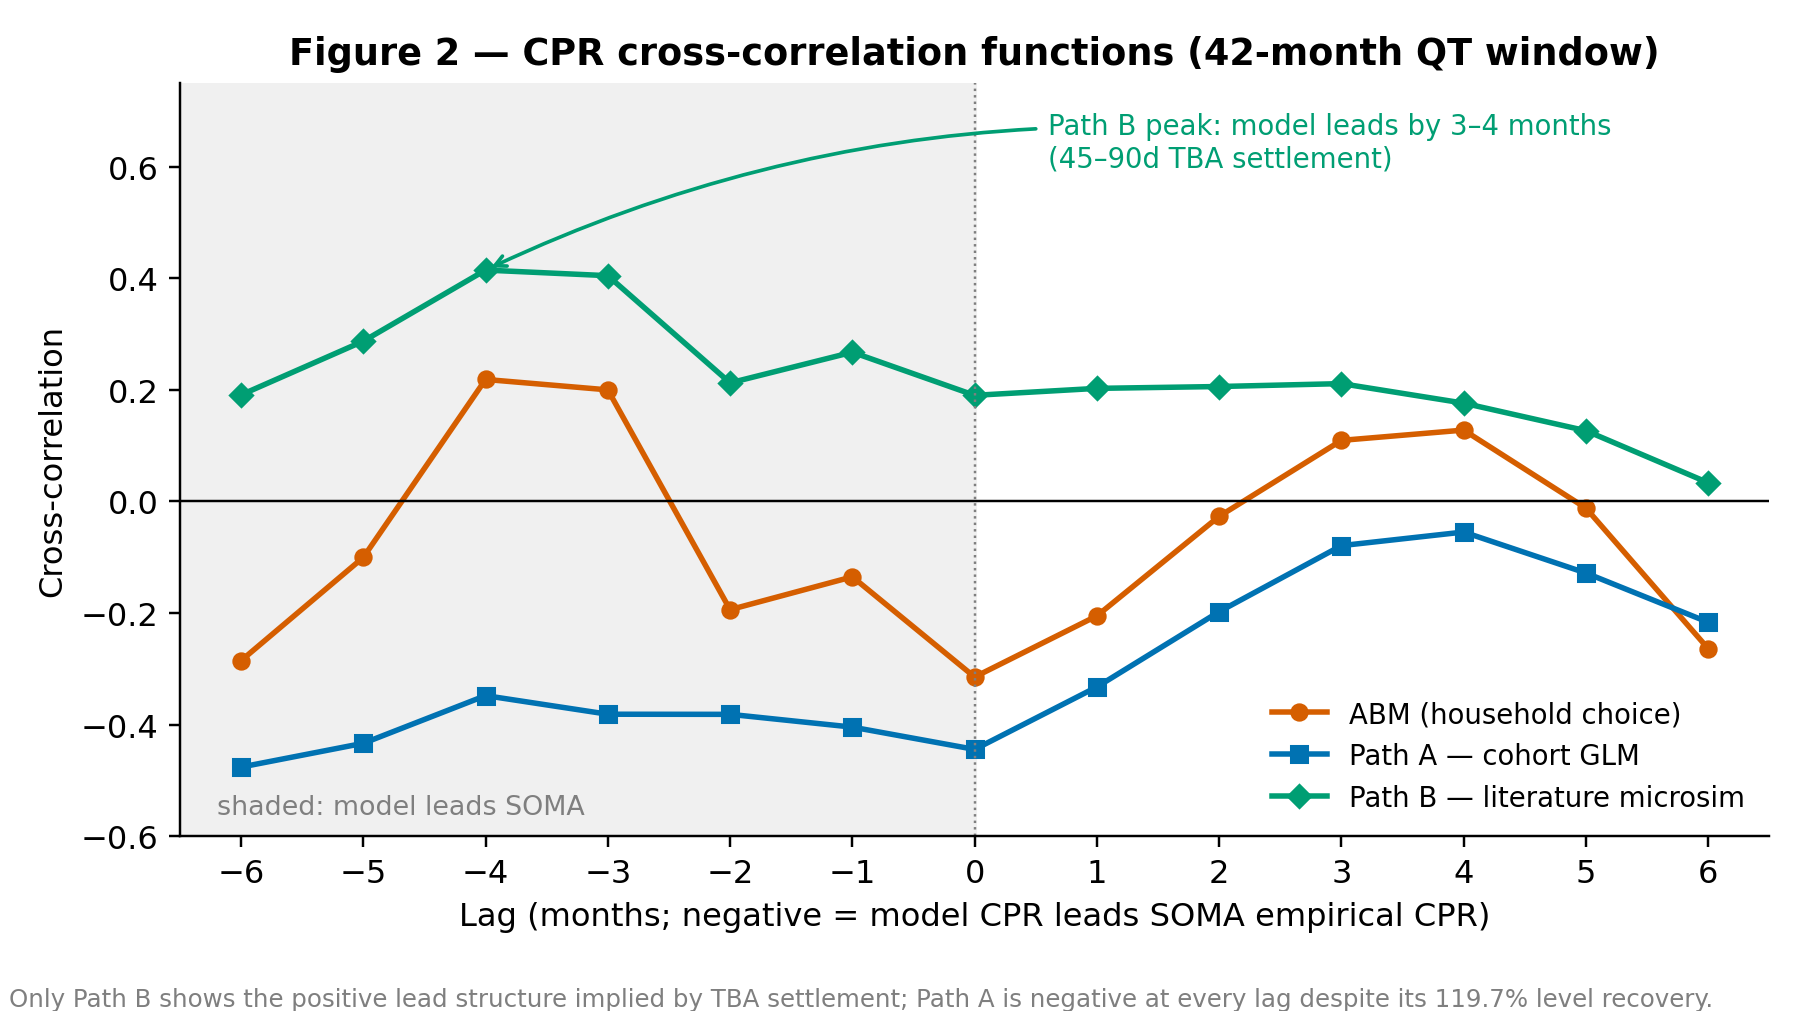
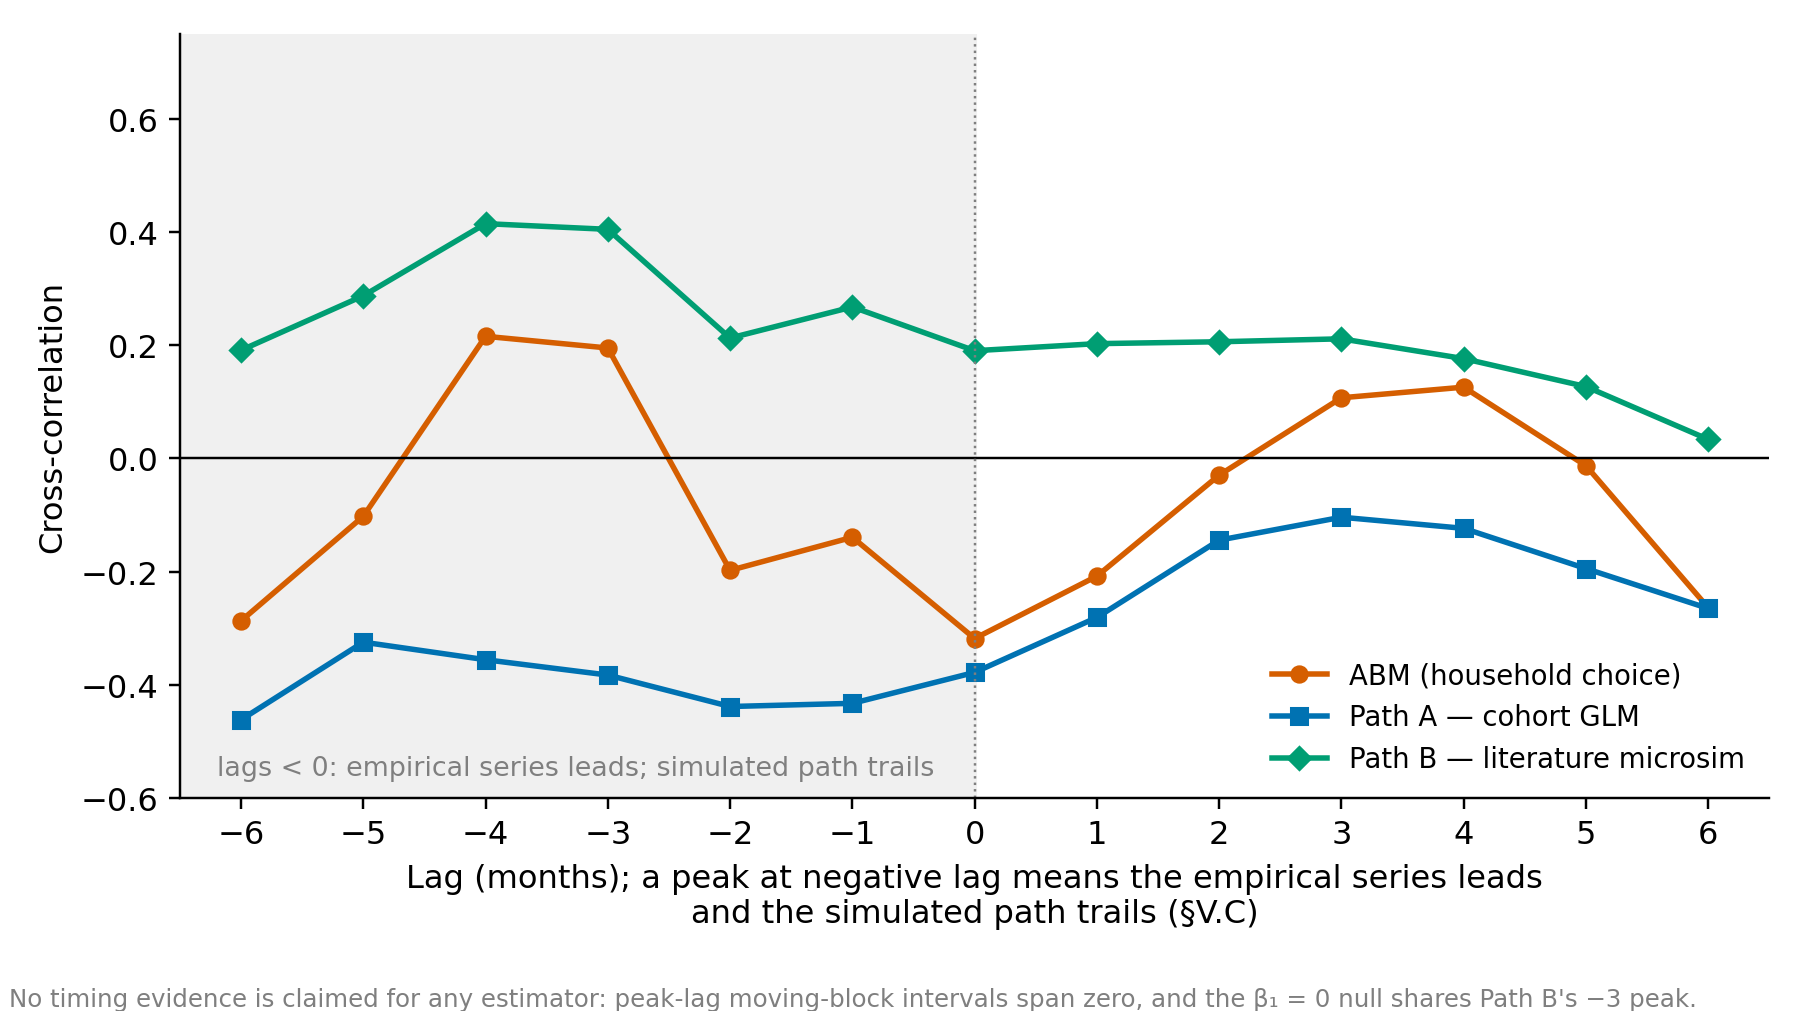
Run: figure layer regenerated under spec v4 (post-freeze pass, phase 3)
ccf_data.json rebuilt by make_ccf_data.py, all gates green: ABM ±3 values
equal the run-2026-07-04-15yr-foldin manifest cross_correlation block
(production series, lag-0 r -0.318; previous file used the berger variant);
Path A spec v4 from simulation_results.parquet (lag-0 r -0.3782 matching
the run-2026-07-14-pathA-seasonal manifest, ±3 peak at -2); Path B ±3
values equal extension_risk_results_literature_microsim.json (peak -3 at
+0.404, unchanged).

Regenerated fig2_ccf.png (retracted model-leads/TBA annotations removed,
convention-correct labels, no-timing-evidence footer, v4 Path A curve),
fig1_recovery_by_estimator.png (Path A 112.4% shared / 121.5 standalone,
r0 -0.38, from shared_layer_scoring_results.json + frozen manifest),
fig7_architecture.png (footer: standalone scorer ABM 11.9% / Path A 121.5%
/ Path B 107.0%, read from manifests), fig5_cross_design.png (neutral
footer; values from cross_design_results.json + fold-in manifest).
make_figures.py: CCF xlabel wrapped to two lines. README updated to the
new generator layout and v4 numbers.

diff --git a/figures/make_figures.py b/figures/make_figures.py
@@ -153,7 +153,7 @@ def fig2_ccf():
     ax.axhline(0, color="black", lw=0.8)
     ax.axvline(0, color=C_GRAY, lw=0.8, ls=":")
     ax.set_xlabel("Lag (months); a peak at negative lag means the empirical "
-                  "series leads and the simulated path trails (§V.C)")
+                  "series leads\nand the simulated path trails (§V.C)")
     ax.set_ylabel("Cross-correlation")
     ax.set_xlim(-6.5, 6.5)
     ax.set_ylim(-0.6, 0.75)

diff --git a/figures/README.md b/figures/README.md
@@ -1,10 +1,13 @@
 # Figures
 
 Publication figures for the lock-in paper, generated entirely from committed
-result artifacts — no live data fetch needed. Regenerate with:
+result artifacts — no recovery share, dollar figure, or correlation is
+hardcoded in the generators (enforced by tools/liveness_gates.py).
+Regenerate with:
 
 ```bash
-python3 figures/make_figures.py
+python3 figures/make_ccf_data.py   # rebuilds ccf_data.json (gated)
+python3 figures/make_figures.py    # all figures, or pass fig1 fig2 …
 ```
 
 Style: Okabe-Ito colorblind-safe palette; paradigms are color-coded throughout
@@ -13,35 +16,42 @@ purple = cross-design hybrids).
 
 | File | What it shows | Data source |
 |---|---|---|
-| `fig1_recovery_by_estimator.png` | Benchmark recovery (% of $764.7B) per estimator, dot plot with 100% reference line, on the shared accounting basis. Paradigm colors only — marker-fill semantics were removed in the v15 round; lag-0 correlations are reference-only ([TECHNICAL.md §22.3b](../TECHNICAL.md#22-manuscript-verification-record-referee-rounds-july-2026)). | run manifests, `extension_risk_results_*.json`, `cross_design_results.json`, `synthetic_companion_results.json` |
-| `fig2_ccf.png` | Cross-correlation functions, lags −6…+6, all three estimators. Under the corrected convention (§22.3b), the −3/−4 peaks mean the simulated paths **trail** the empirical series; no estimator shows positive contemporaneous alignment, and the peaks are not distinguishable from zero under block-bootstrap bands. | `ccf_data.json` (see below) |
-| `fig3_abm_waterfall.png` | ABM falsification bridge: rational baseline 71.1% → behavioral gates 54.9% → curtailment 45.1% → multi-vintage 33.7% → 15yr fold-in 11.9% → production (native gate) 11.1%. Every pre-registered extension moves away from 100%. | stage levels 71.1/54.9/45.1/33.7 as supplied from the paper's falsification table; final two stages from `run-2026-07-04-15yr-foldin` / `run-2026-07-05-berger` manifests |
+| `fig1_recovery_by_estimator.png` | Benchmark recovery (% of $764.7B) per estimator, dot plot with 100% reference line, on the shared accounting basis (standalone-scorer values in parentheses); lag-0 correlations are reference-only ([TECHNICAL.md §22.3b](../TECHNICAL.md#22-manuscript-verification-record-referee-rounds-july-2026)). Path A row is spec v4 (post-freeze pass). | `shared_layer_scoring_results.json`, `run-2026-07-14-pathA-seasonal` manifest, `full_book_weighting_results.json`, `extension_risk_results_literature_microsim.json`, `synthetic_companion_results.json`, `cross_design_results.json`, `run-2026-07-05-berger` manifest |
+| `fig2_ccf.png` | Cross-correlation functions, lags −6…+6, all three estimators. Under the implemented convention (§V.C), a peak at negative lag means the **empirical series leads and the simulated path trails**; no estimator shows positive contemporaneous alignment and no timing evidence is claimed for any estimator. Path A is spec v4 (lag-0 r −0.378, peak −2); ABM is the production fold-in run. | `ccf_data.json` (regenerated by `make_ccf_data.py`, see below) |
+| `fig3_abm_waterfall.png` | ABM falsification bridge: rational baseline 71.1% → behavioral gates 54.9% → curtailment 45.1% → multi-vintage 33.7% → 15yr fold-in 11.9% → native-gate variant 11.1%. Every pre-registered extension moves away from 100%. | `fig3_stage_levels.json` (first four stages, as printed in the manuscript's falsification narrative); final two stages from the `run-2026-07-04-15yr-foldin` / `run-2026-07-05-berger` manifests |
 | `fig4_institutional_gap_sensitivity.png` | Institutional gap vs assumed U.S.-transplant refi-in-place CPR (0–18%), zero line, breakevens (ABM 12.6%, Path B 1.4%), Berger best-estimate ≈0 marked. The "sign is fragile, magnitude is not" chart (§20.1). | `abm/data/refi_sweep_results.json` |
-| `fig5_cross_design.png` | Cross-design variants as paired panels: (a) level recovery with the pre-registered 50% threshold and 10–35% synthetic band; (b) lag-0 path correlation — **all negative**, so 59.3% cannot be read as "the ABM basically works" (§VIII.D). | `abm/data/cross_design_results.json` (synthetic control at its contemporaneous 11.9% baseline) |
+| `fig5_cross_design.png` | Cross-design variants as paired panels: (a) level recovery with the pre-registered 50% threshold and 10–35% synthetic band; (b) lag-0 path correlation — **all negative**. Footer is neutral (post-freeze pass). | `abm/data/cross_design_results.json` (synthetic-control lag-0 r from the `run-2026-07-04-15yr-foldin` manifest) |
 | `fig6_elasticity_band.png` | Path B trapped liquidity across the Liebersohn–Rothstein P_q band (5.5–7.7%), central 6.5% marked, benchmark line. | `hazard/data/extension_risk_band_literature.json` |
-| `fig7_architecture.png` | One-panel roadmap: data sources → three estimators → shared macro accounting → $764.7B benchmark, with the two robustness cross-links (cross-design §15, symmetric companion §18). | schematic (numbers from §12) |
+| `fig7_architecture.png` | One-panel roadmap: data sources → three estimators → shared macro accounting → $764.7B benchmark, with the two robustness cross-links (cross-design §15, symmetric companion §18). Footer states the standalone-scorer production headlines with basis. | schematic; footer from the `run-2026-07-04-15yr-foldin` and `run-2026-07-14-pathA-seasonal` manifests and `extension_risk_results_literature_microsim.json` |
 
 ## `ccf_data.json`
 
-±6-lag cross-correlations recomputed once from committed artifacts (stored
-result JSONs only cover ±3; their overlapping values match exactly):
+±6-lag cross-correlations regenerated by the committed, gated
+`make_ccf_data.py` (stored result JSONs only cover ±3; the overlapping
+values are gated to match them exactly):
 
-- ABM: `abm/data/runs/run-2026-07-05-berger/metrics_monthly.csv`
-  (`Empirical_CPR_Pct` vs `US_CPR_Pct`)
-- Path A / Path B: `hazard/data/simulation_results.parquet` /
+- ABM: `abm/data/runs/run-2026-07-04-15yr-foldin/metrics_monthly.csv`
+  (`Empirical_CPR_Pct` vs `US_CPR_Pct`) — the **production** run the
+  manuscript's Table 2 quotes (lag-0 r −0.318). Earlier editions of this
+  file used the `run-2026-07-05-berger` variant series.
+- Path A / Path B: `hazard/data/simulation_results.parquet` (spec v4,
+  hash-identical to the frozen `run-2026-07-14-pathA-seasonal` artifact) /
   `hazard/data/microsim_results.parquet` against the hazard scorer's own
   empirical series (`macro.build_empirical_metrics`), 42-month QT window,
   `cpr_cross_correlation(max_lag=6)`
 
-Sign convention (corrected in the v15 referee round, [TECHNICAL.md §22.3b](../TECHNICAL.md#22-manuscript-verification-record-referee-rounds-july-2026)): a peak at negative lag means the **empirical series leads and the model CPR trails** under the implemented `cpr_cross_correlation` convention.
+Sign convention (corrected in the v15 referee round, [TECHNICAL.md §22.3b](../TECHNICAL.md#22-manuscript-verification-record-referee-rounds-july-2026)): a peak at negative lag means the **empirical series leads and the simulated path trails** under the implemented `cpr_cross_correlation` convention.
 
 ## Numbers cited (for cross-checking against TECHNICAL.md)
 
-- Benchmark: $764.7B (§12) · ABM production: $84.5B / 11.1%, r₀ = −0.315
-  (`run-2026-07-05-berger`)
-- Path A: $915.1B / 119.7%, r₀ = −0.444 · Path B: $818.5B / 107.0%, r₀ = +0.190,
-  band $810–828B (§15 Fix 3)
+- Benchmark: $764.7B (§12) · ABM production: $91.0B / 11.9%, r₀ = −0.318
+  (`run-2026-07-04-15yr-foldin`); Berger-run variant $84.5B / 11.1%,
+  r₀ = −0.315 (`run-2026-07-05-berger`, the fig1 ABM row)
+- Path A (spec v4): $928.9B / 121.5% standalone, 112.4% shared basis,
+  r₀ = −0.378, peak −2 (`run-2026-07-14-pathA-seasonal`) · Path B: $818.5B /
+  107.0%, r₀ = +0.190, band $810–828B (§15 Fix 3); composed full-book
+  109.1% standalone / 100.0% shared, r₀ = +0.278
 - Cross-design: 59.3% (recal., r₀ = −0.336) / 20.9% (frozen, r₀ = −0.311) vs
   11.9% contemporaneous control (§15 Fix 1)
-- Synthetic companion Path B: 106.0%, r₀ = −0.063 (§18)
+- Synthetic companion Path B: 106.0% standalone (96.9% shared), r₀ = −0.063 (§18)
 - Refi sweep: breakeven ABM 12.6%, Path B 1.4% (§20.1)
